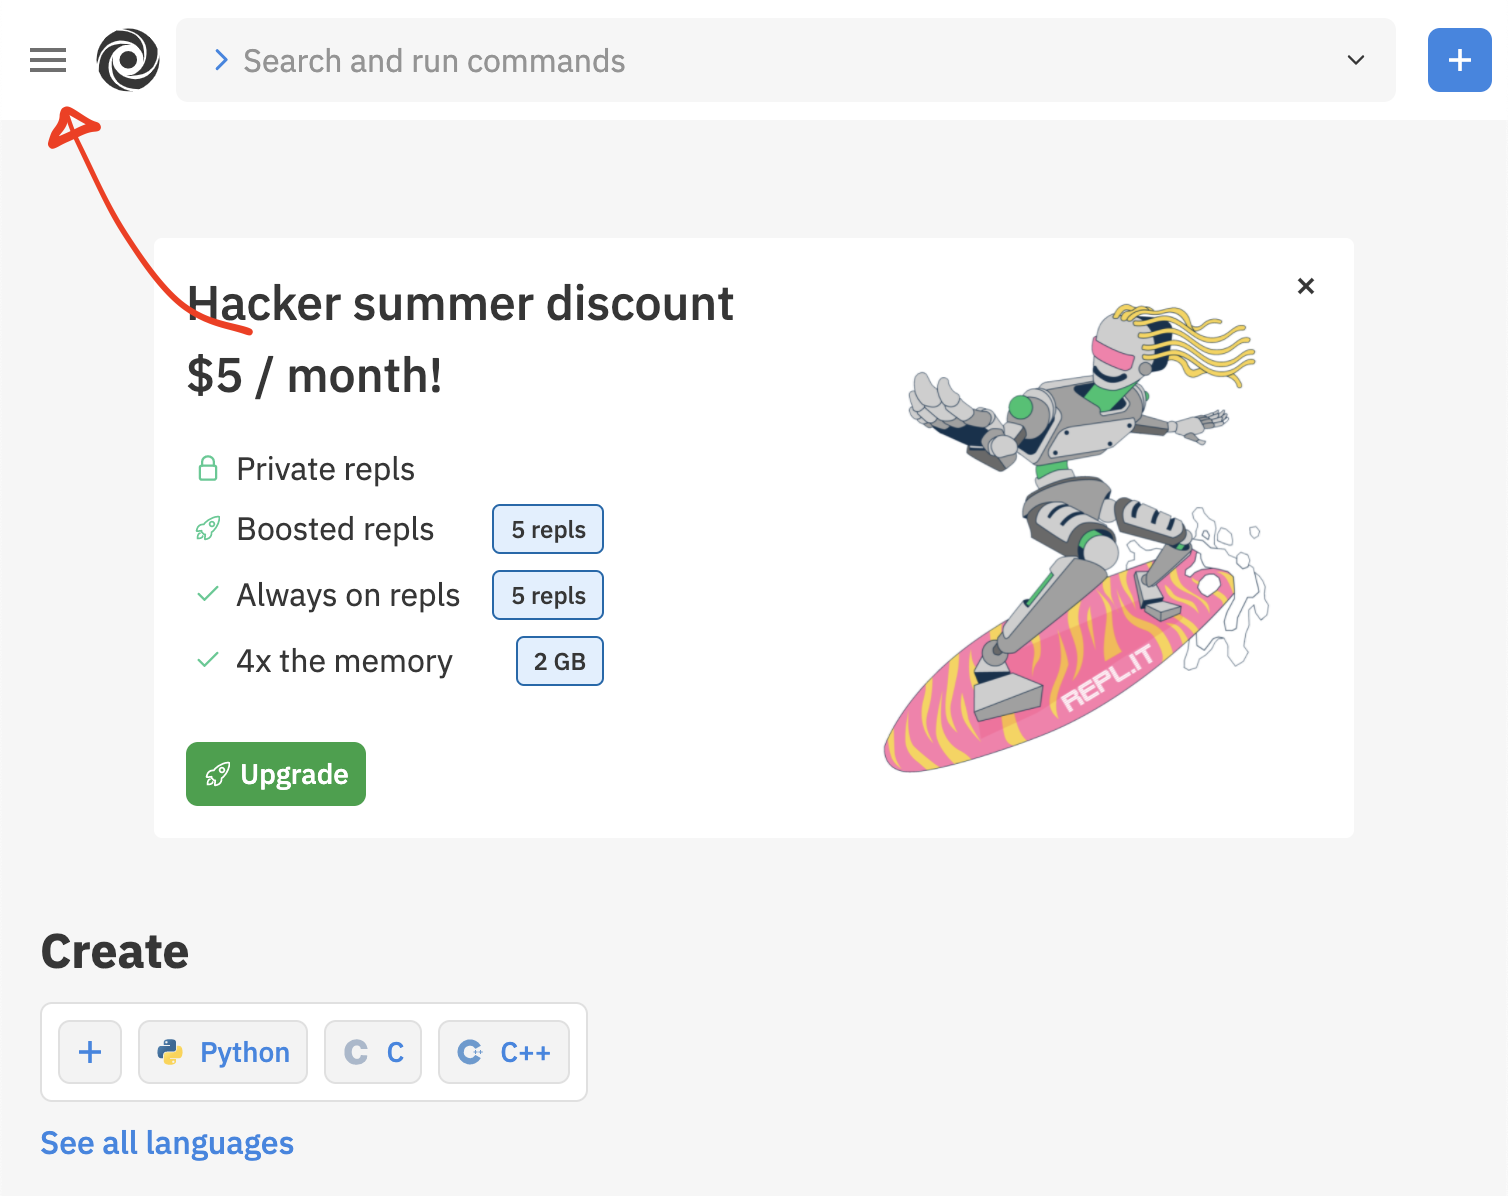
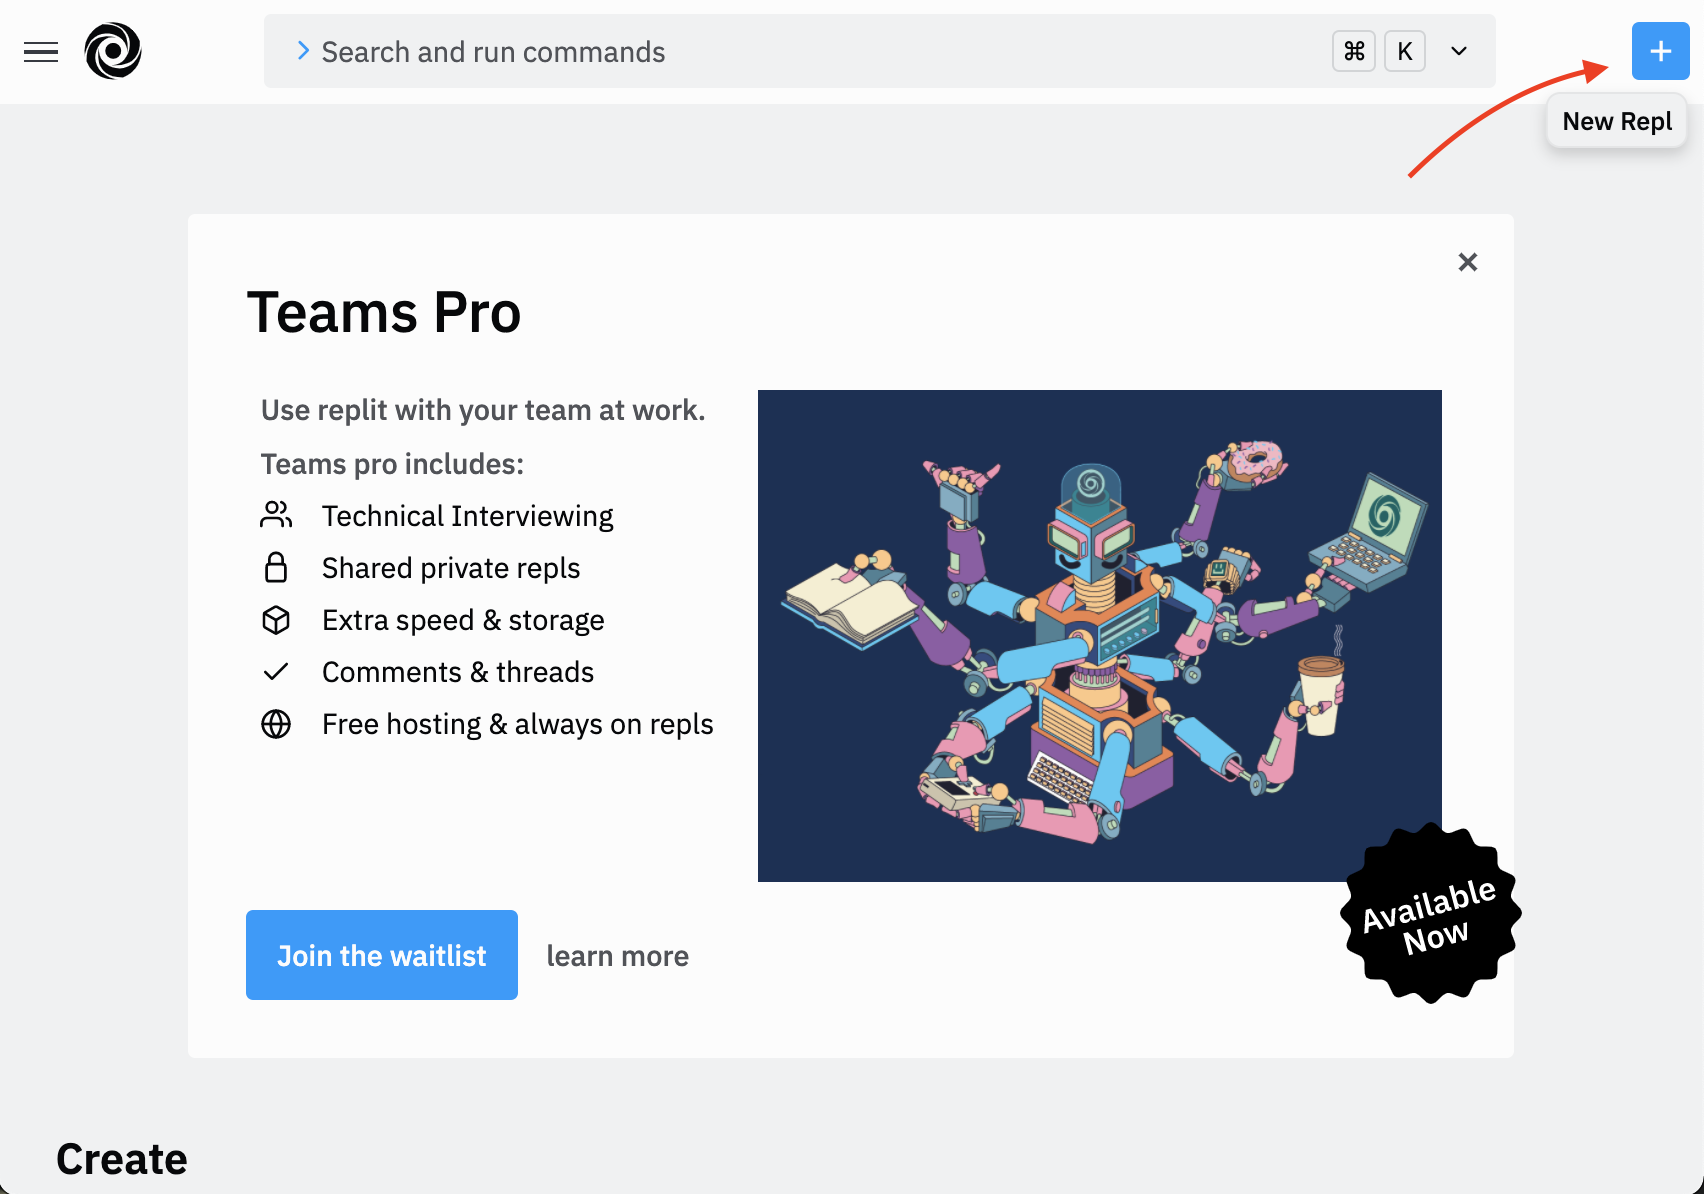
updated "create new repl" instructions to be more clear

diff --git a/00 - Python/Lecture/english.md b/00 - Python/Lecture/english.md
@@ -101,9 +101,9 @@ It gets annoying to say "for 1000 contacts `O(log 1000)`" so we often replace th
 # Python
 Lets learn a real coding language now and put aside this (insert funny word) of fake code. 
 
-Click this link to go to the greatest coolest code editing tool https://replit.com/
+Right lick this link and select "open in new tab" to go to the greatest coolest code editing tool https://replit.com/
 
-We recommend you put this website in another tab, and split your screen so that you can read along while coding.
+We recommend you put this new website in another tab, and split your screen so that you can read along while coding.
 
 ![course workflow window layout](/Assets/course_workflow_window_layout.gif)
 
@@ -113,11 +113,11 @@ Once you've finished with that you will be presented with a screen like this.
 
 ![replit landing page](/Assets/replit_landing_page.png)
 
-Click the three lines to open a sidebar. In the sidebar there is a blue button that says "`+ New repl`", click it and you will see a popup like this.
+Click the plus button in the top right, and you will see a popup like this.
 
 ![replit new repl](/Assets/replit_new_repl.png)
 
-Select the Python programming language and click create repl. You will be welcomed by Replit's in browser code editor.
+Select "Python" for the programming language and click create repl. You will be welcomed by Replit's in browser code editor.
 
 ![replit ide](/Assets/replit_ide.png)
 
